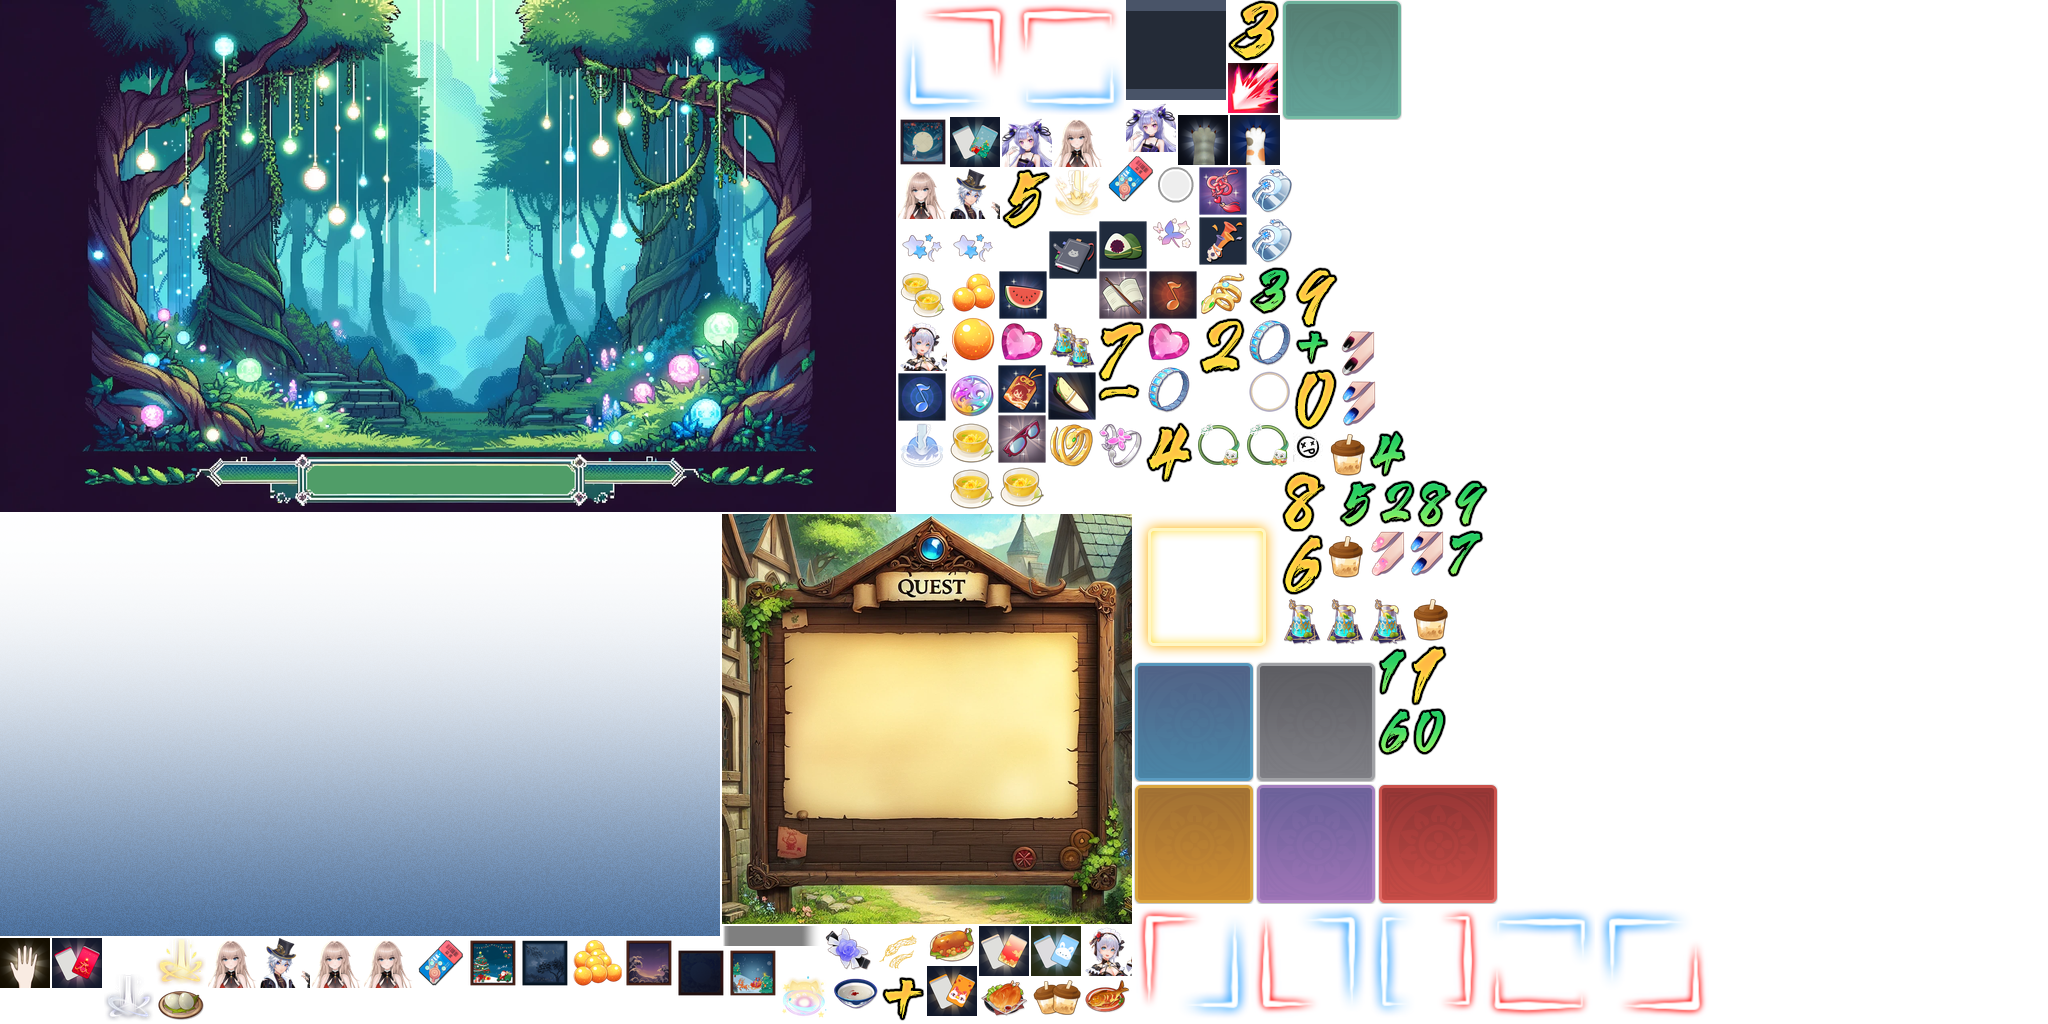
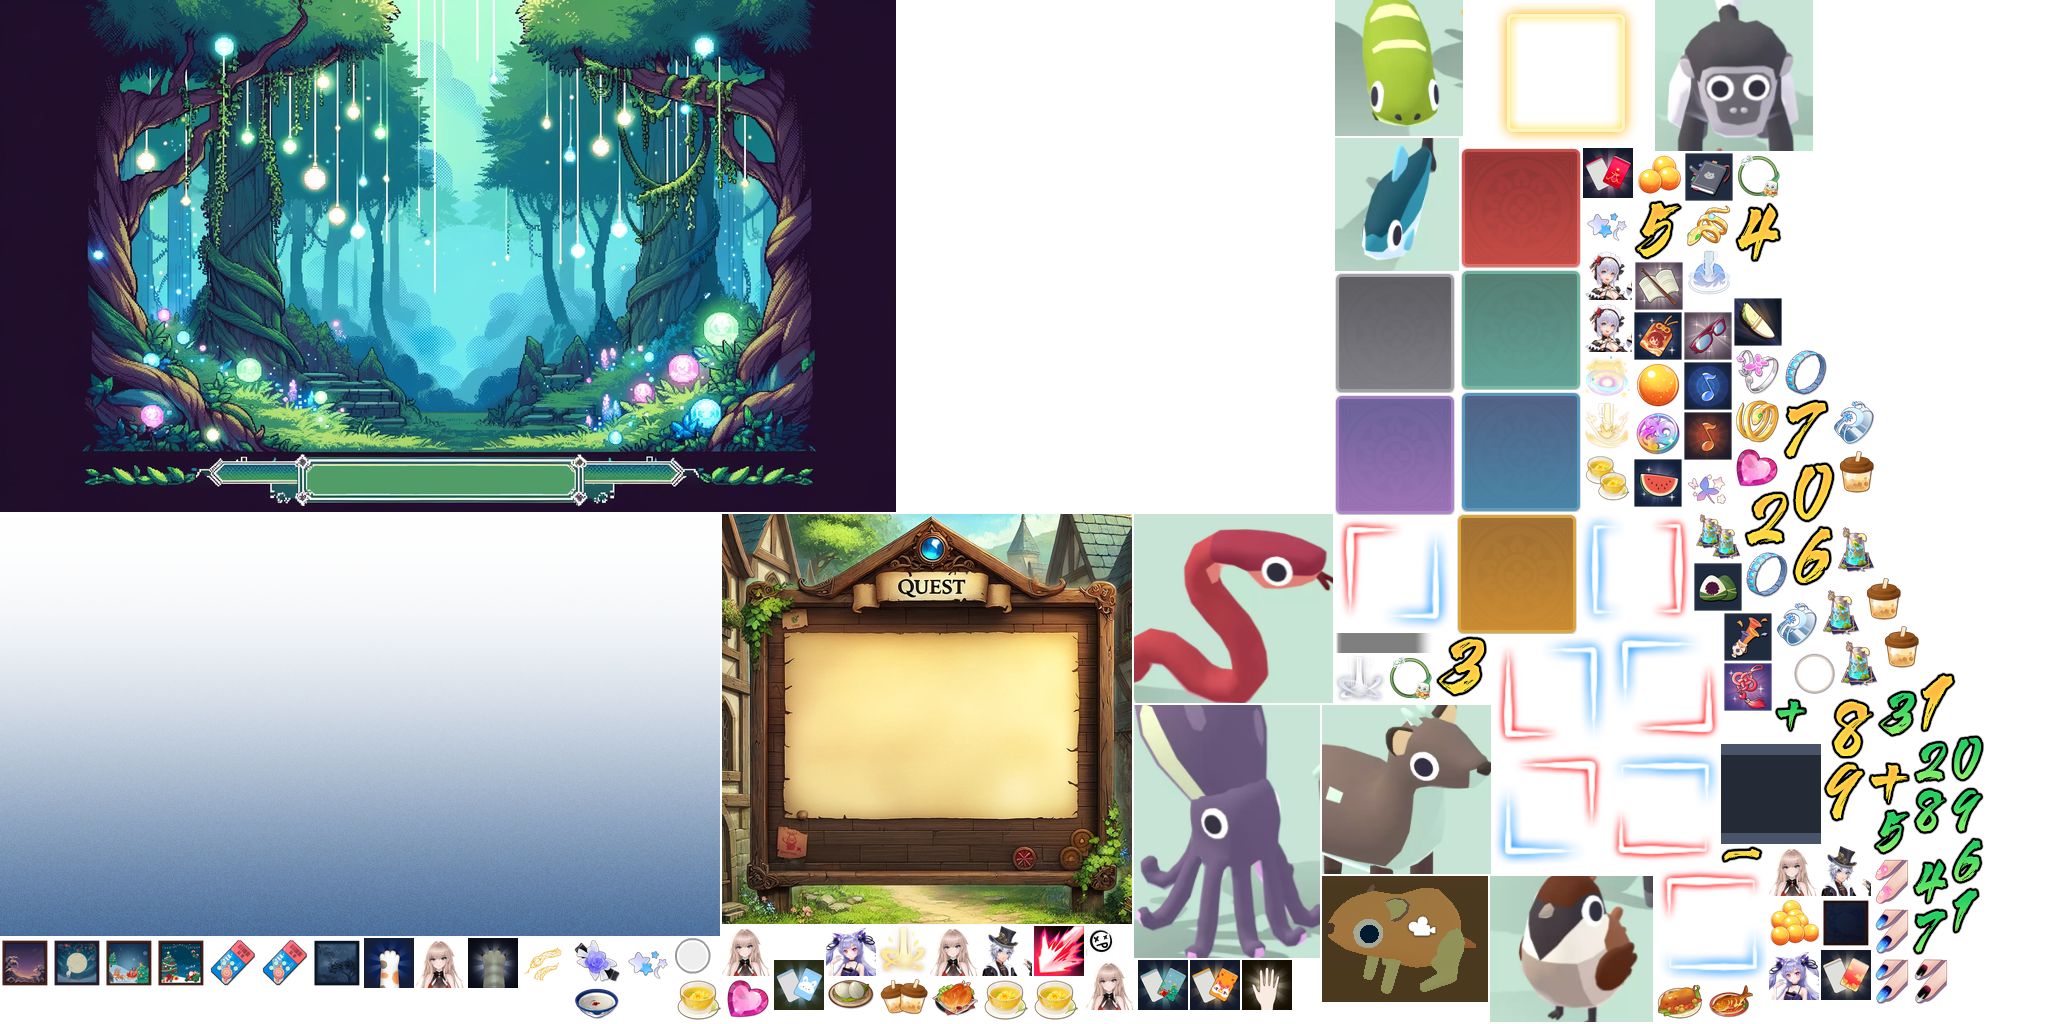
spawn and unspawn models

Changed region(s): [[0.0, 0.0, 0.9688, 1.0]]

diff --git a/Assets/GameScript/FrameWork/ObjectPool.cs b/Assets/GameScript/FrameWork/ObjectPool.cs
@@ -6,11 +6,13 @@ public class ObjectPool : MonoBehaviour
     public static ObjectPool Inst;
     public List<GameObject> prefabList;
     private Dictionary<string, Queue<GameObject>> poolDictionary;
+    private List<GameObject> spawnedList;
     private void Awake()
     {
         DontDestroyOnLoad(gameObject);
         Inst = this;
         LoadPrefabList(ModelPrefabManager.Inst.prefabList);
+
     }
     private void OnDestroy()
     {
@@ -64,6 +66,9 @@ public class ObjectPool : MonoBehaviour
 
         objectToSpawn.transform.position = position;
         objectToSpawn.transform.rotation = rotation;
+        if (spawnedList == null)
+            spawnedList = new List<GameObject>();
+        spawnedList.Add(objectToSpawn);
 
         return objectToSpawn;
     }
@@ -71,7 +76,7 @@ public class ObjectPool : MonoBehaviour
     public void Unspawn(GameObject objectToUnspawn)
     {
         string prefabName = objectToUnspawn.name.Replace("(Clone)", "").Trim();
-
+        prefabName = objectToUnspawn.name.Replace("instance_", "").Trim();
         if (!poolDictionary.ContainsKey(prefabName))
         {
             Debug.LogWarning("Prefab with name " + prefabName + " doesn't exist in the pool.");
@@ -81,5 +86,12 @@ public class ObjectPool : MonoBehaviour
 
         objectToUnspawn.SetActive(false);
         poolDictionary[prefabName].Enqueue(objectToUnspawn);
+    }
+    public void UnspawnAll()
+    {
+        foreach (var obj in spawnedList)
+        {
+            Unspawn(obj);
+        }
     }
 }

diff --git a/Assets/GameScript/Service/TBSPlayer.cs b/Assets/GameScript/Service/TBSPlayer.cs
@@ -3,6 +3,7 @@ using System.Collections.Generic;
 using UnityEngine;
 using UniFramework.Event;
 using SunHeTBS;
+using System.IO;
 public static class TBSPlayer
 {
     public static UserDetail UserDetail; //玩家的所有信息
@@ -137,6 +138,22 @@ public static class TBSPlayer
         UserDetail.myQuests.Add(questId, data);
     }
     #endregion
+
+    #region load and save
+
+    public static void SavePlayer()
+    {
+        string filePath = Application.persistentDataPath + "/player.json";
+        string jsonString = JsonUtility.ToJson(TBSPlayer.UserDetail);
+        // Write the JSON string to a file
+        File.WriteAllText(filePath, jsonString);
+        Debug.Log("File saved to: " + filePath);
+    }
+    public static void LoadPlayer()
+    {
+        ;
+    }
+    #endregion
 }
 public class UserDetail
 {
@@ -211,4 +228,5 @@ public class QuestEntry
         //    status = QuestStatus.Finished;
         //}
     }
+
 }

diff --git a/Assets/GameScript/FrameWork/UIService.cs b/Assets/GameScript/FrameWork/UIService.cs
@@ -276,7 +276,7 @@ public class UIService : ISingleton
         mItem.ctrl_quality.selectedIndex = cfg.Quality;
         mItem.txt_name.text = cfg.Name;
         string packName = FUIDef.FPackage.PackageBattle.ToString();
-        mItem.iconLoader.url = $"ui://{packName}/{cfg.Icon}";//load from Assets/Resorce 
+        mItem.iconLoader.url = $"ui://{packName}/{cfg.Icon}";//icon from fairy
     }
 
 }

diff --git a/Assets/GameScript/UILogic/DeveloperUI/UIPage_Debug.cs b/Assets/GameScript/UILogic/DeveloperUI/UIPage_Debug.cs
@@ -51,7 +51,8 @@ public class UIPage_Debug : FUIBase
     {
         OnBtnClose();
         //FUIManager.Inst.ShowUI<UIPage_Dialogue>(FUIDef.FWindow.DialoguePage, null, 1000);
-        ObjectPool.Inst.Spawn("Colobus", Vector3.zero, Quaternion.identity);
+        //ObjectPool.Inst.Spawn("Colobus", Vector3.zero, Quaternion.identity);
+        ObjectPool.Inst.UnspawnAll();
     }
 
 

diff --git a/Assets/GameScript/UILogic/BattleUI/UIPage_Store.cs b/Assets/GameScript/UILogic/BattleUI/UIPage_Store.cs
@@ -103,6 +103,11 @@ public class UIPage_Store : FUIBase
         itemList = new List<UserItem>();
         itemList.Add(new UserItem(100, 333));
         itemList.Add(new UserItem(101, 555));
+
+        for (int i = 103; i <= 110; i++)
+        {
+            itemList.Add(new UserItem(i, 99));
+        }
     }
     #endregion
 

diff --git a/Assets/GameScript/UILogic/BattleUI/UIPage_RunnerGame.cs b/Assets/GameScript/UILogic/BattleUI/UIPage_RunnerGame.cs
@@ -76,6 +76,7 @@ public class UIPage_RunnerGame : FUIBase
     {
         Debug.Log("BtnSaveGame");
         GameManager.Instance.SaveGame();
+        TBSPlayer.SavePlayer();
     }
 
     protected void OnClickBtnPause()
